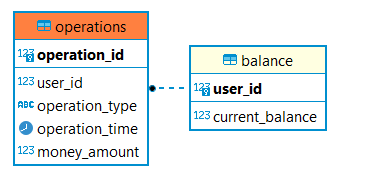
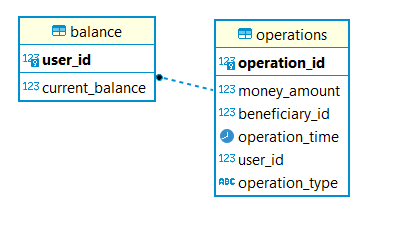
Final version

Changed region(s): [[0.0292, 0.0541, 0.8753, 0.9189]]

diff --git a/src/main/java/com/skillfactory/FinancialBalance/services/BalanceService.java b/src/main/java/com/skillfactory/FinancialBalance/services/BalanceService.java
@@ -36,7 +36,7 @@ public class BalanceService {
             Float newBalance = balance.getBalance() + moneyAmount;
             balance.setBalance(newBalance);
             balanceRepository.save(balance);
-            registerOperation(userId, "put_money", moneyAmount);
+            registerOperation(userId, null,"put_money", moneyAmount);
             return "Баланс клиента с идентификатором " + userId + " пополнен на " + moneyAmount + " " +
                     " рублей и составляет " + newBalance + " рублей.";
         } catch (NoSuchElementException ex) {
@@ -52,7 +52,7 @@ public class BalanceService {
             if (newBalance >= 0) {
                 balance.setBalance(newBalance);
                 balanceRepository.save(balance);
-                registerOperation(userId, "take_money", -moneyAmount);
+                registerOperation(userId, null, "take_money", -moneyAmount);
                 return "С баланса клиента с идентификатором " + userId + " снята сумма " + moneyAmount + " " +
                         " сумма на счету составляет " + newBalance + " рублей.";
             } else return "Средств на счету клиент с идентификатором " + userId + "недостаточно для проведения операции." +
@@ -61,10 +61,38 @@ public class BalanceService {
             return "Клиент с идентификатором " + userId + " не существует.";
         }
     }
-    public void registerOperation(Long userId, String operationType, Float moneyAmount) {
+
+    @Transactional
+    public String transferMoney(Long userId, Long beneficiaryId, Float moneyAmount) {
+        Balance userBalance = new Balance();
+        Balance beneficiaryBalance = new Balance();
+        try {
+            userBalance = balanceRepository.findById(userId).get();
+            beneficiaryBalance = balanceRepository.findById(beneficiaryId).get();
+            if (userBalance.getBalance() - moneyAmount >= 0) {
+                Float newUserBalance = userBalance.getBalance() - moneyAmount;
+                Float newBeneficiaryBalance = beneficiaryBalance.getBalance() + moneyAmount;
+                userBalance.setBalance(newUserBalance);
+                beneficiaryBalance.setBalance(newBeneficiaryBalance);
+                balanceRepository.save(userBalance);
+                balanceRepository.save(beneficiaryBalance);
+                registerOperation(userId, beneficiaryId, "transfer_money", moneyAmount);
+                return "Сумма " + moneyAmount + " переведена со счета клиента " + userId +
+                        " на счет клиента " + beneficiaryId + ".";
+            } else if (userId == beneficiaryId) {
+                return "Операция невозможна. Клиент выполнил попытку перевести деньги себе со своего же счета.";
+            }
+            else return "Средств на счету клиент с идентификатором " + userId + "недостаточно для проведения операции." +
+                    " Операция отклонена.";
+        } catch (NoSuchElementException ex) {
+            return "Клиент с идентификатором " + userId + " не существует.";
+        }
+    }
+    public void registerOperation(Long userId, Long beneficiaryId, String operationType, Float moneyAmount) {
         Operation operation = new Operation();
         operation.setOperationType(operationType);
         operation.setUserId(userId);
+        operation.setBeneficiaryId(beneficiaryId);
         operation.setMoneyAmount(abs(moneyAmount));
         operation.setOperationTime(new Date());
         operationRepository.save(operation);

diff --git a/src/test/java/com/skillfactory/FinancialBalance/services/BalanceServiceTests.java b/src/test/java/com/skillfactory/FinancialBalance/services/BalanceServiceTests.java
@@ -1,0 +1,54 @@
+package com.skillfactory.FinancialBalance.services;
+
+import com.skillfactory.FinancialBalance.repositories.BalanceRepository;
+import com.skillfactory.FinancialBalance.repositories.OperationRepository;
+import com.skillfactory.FinancialBalance.services.BalanceService;
+import org.junit.Ignore;
+import org.junit.jupiter.api.Assertions;
+import org.junit.jupiter.api.Test;
+import org.junit.jupiter.api.TestInstance;
+import org.mockito.InjectMocks;
+import org.mockito.Mock;
+import org.springframework.boot.test.context.SpringBootTest;
+@Ignore
+
+@SpringBootTest
+@TestInstance(TestInstance.Lifecycle.PER_CLASS)
+public class BalanceServiceTests {
+    @InjectMocks
+    private BalanceService balanceService;
+    @Mock
+    private BalanceRepository balanceRepository;
+    @Mock
+    private OperationRepository operationRepository;
+
+    @Test
+    public void putMoneyTest() {
+        Long userId = 15000L;
+        Float moneyAmount = 500.0F;
+        float newBalance = 10500.0F;
+        String message = balanceService.putMoney(userId, moneyAmount);
+        Assertions.assertEquals("Баланс клиента с идентификатором " + userId + " пополнен на " + moneyAmount + " " +
+                " рублей и составляет " + newBalance + " рублей.", message);
+    }
+
+    @Test
+    public void takeMoneyTest() {
+        Long userId = 16000L;
+        Float moneyAmount = 500.0F;
+        float newBalance = 9500.0F;
+        String message = balanceService.takeMoney(userId, moneyAmount);
+        Assertions.assertEquals("С баланса клиента с идентификатором " + userId + " снята сумма " + moneyAmount + " " +
+                " сумма на счету составляет " + newBalance + " рублей.", message);
+    }
+
+    @Test
+    public void transferMoneyTest() {
+        Long userId = 17000L;
+        Long beneficiaryId = 18000L;
+        Float moneyAmount = 500.0F;
+        String message = balanceService.takeMoney(userId, moneyAmount);
+        Assertions.assertEquals("Сумма " + moneyAmount + " переведена со счета клиента " + userId +
+                " на счет клиента " + beneficiaryId + ".", message);
+    }
+}

diff --git a/src/main/java/com/skillfactory/FinancialBalance/controllers/BalanceController.java b/src/main/java/com/skillfactory/FinancialBalance/controllers/BalanceController.java
@@ -18,16 +18,22 @@ public class BalanceController {
     }
     @PostMapping("/users/{userId}/putMoney")
     public String putMoney(@PathVariable Long userId, @RequestBody JSONObject userProperties) {
-        String moneyAmountStr = (String) userProperties.get("moneyAmount");
-        Float moneyAmount = Float.parseFloat(moneyAmountStr);
+        Float moneyAmount = Float.parseFloat(String.valueOf(userProperties.get("moneyAmount")));
         return balanceService.putMoney(userId, moneyAmount);
     }
     @PostMapping("/users/{userId}/takeMoney")
     public String takeMoney(@PathVariable Long userId, @RequestBody JSONObject userProperties) {
-        String moneyAmountStr = (String) userProperties.get("moneyAmount");
-        Float moneyAmount = Float.parseFloat(moneyAmountStr);
+        Float moneyAmount = Float.parseFloat(String.valueOf(userProperties.get("moneyAmount")));
         return balanceService.takeMoney(userId, moneyAmount);
     }
+
+    @PostMapping("/users/{userId}/transferMoney")
+    public String transferMoney(@PathVariable Long userId, @RequestBody JSONObject userProperties) {
+        Float moneyAmount = Float.parseFloat(String.valueOf(userProperties.get("moneyAmount")));
+        Long beneficiaryId = Long.parseLong(String.valueOf(userProperties.get("beneficiaryId")));
+        return balanceService.transferMoney(userId, beneficiaryId, moneyAmount);
+    }
+
     @GetMapping("/users/getOperationList")
     public String takeMoney(@RequestParam(value = "userId") Long userId,
                                      @RequestParam(value = "firstTime", required=false) String firstTime,

diff --git a/src/main/java/com/skillfactory/FinancialBalance/entities/Operation.java b/src/main/java/com/skillfactory/FinancialBalance/entities/Operation.java
@@ -3,6 +3,7 @@ package com.skillfactory.FinancialBalance.entities;
 import com.google.gson.annotations.SerializedName;
 import jakarta.persistence.*;
 import lombok.Data;
+
 import java.util.Date;
 @Entity
 @Table(name = "OPERATIONS")
@@ -20,4 +21,6 @@ public class Operation {
     private @SerializedName(value = "operationTime") Date operationTime;
     @Column(name = "MONEY_AMOUNT")
     private @SerializedName(value = "moneyAmount") Float moneyAmount;
+    @Column(name = "BENEFICIARY_ID")
+    private @SerializedName(value = "beneficiaryId") Long beneficiaryId;
 }

diff --git a/README.md b/README.md
@@ -5,6 +5,7 @@
 Для каждого метода реализован Enpoint REST API. Суммы для методов POST передаются в теле запроса в виде параметра в JSON-строке.
 В файле dump-balanceDB-v01.sql находится резервная копия базы данных.
 На втором этапе добавлена таблица Operations, метод фиксации в ней финансовых операций и метод получения выборки операций пользователя за определенный временной отрезок. Реализован Endpoint REST API, возвращающий массив запрашиваемых операций в виде JSON. В файле dump-balanceDB-v02.sql находится резервная копия новой версии базы данных.
+На третьем этапе реализован метод transferMoney и Endpoint API, переводящий средства со счета одного клиента на счет другого. Id получателя средств и их объем передаются через параметры JSON-тела POST-запроса.
 
 
 Ниже приведен снимок экрана схемы базы данных.
